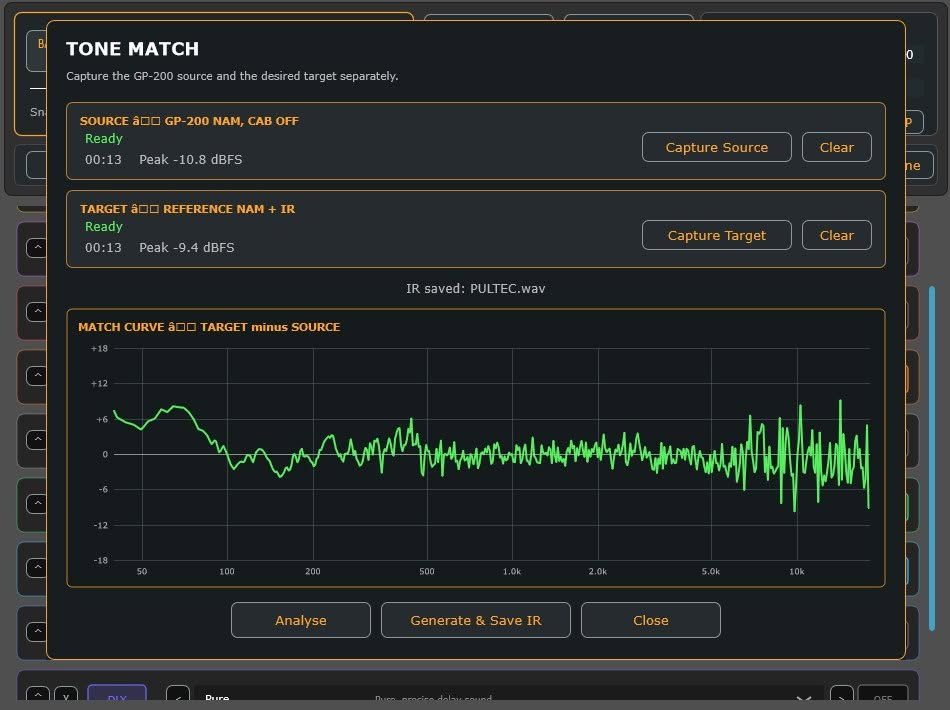
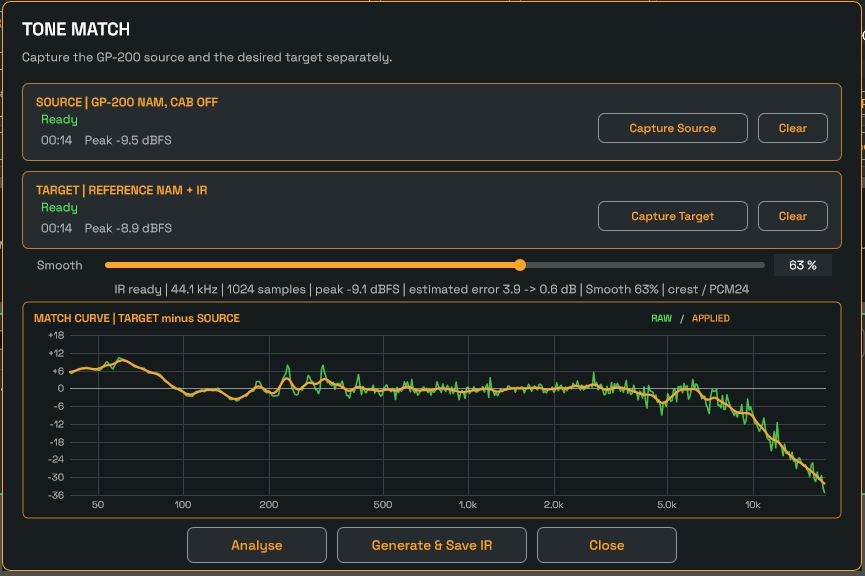
Tonematch GUI update

Changed region(s): [[0.0, 0.0, 1.0, 1.0]]

diff --git a/source/GP200Plugin/ToneMatch/ToneMatchPanel.cpp b/source/GP200Plugin/ToneMatch/ToneMatchPanel.cpp
@@ -2,7 +2,7 @@
     GP200 VST
 
     Portions adapted fro m phash/gp200editor and its contributors.
-    Those portions are licensed under  GPL-3.0-or-later.
+    Those portions are licensed under GPL-3.0-or-later.
 
   
     SPDX-License-Identifier: GPL-3.0-or-later
@@ -501,13 +501,9 @@ void ToneMatchPanel::resized()
         clearWidth,
         30);
 
-    globalStatusLabel.setBounds (
-        20,
-        252,
-        getWidth() - 40,
-        24);
-
-    const auto controlRowY = 278;
+    // Keep Smooth close to the TARGET capture block and use the recovered
+    // vertical space for a larger comparison graph.
+    const auto controlRowY = 252;
 
     smoothLabel.setBounds (
         30,
@@ -521,14 +517,20 @@ void ToneMatchPanel::resized()
         getWidth() - 124,
         24);
 
-    const int graphTop = 308;
-    const int graphBottom = getHeight() - 72;
+    globalStatusLabel.setBounds (
+        20,
+        278,
+        getWidth() - 40,
+        20);
+
+    const int graphTop = 300;
+    const int graphBottom = getHeight() - 52;
 
     matchCurveComponent.setBounds (
         20,
         graphTop,
         getWidth() - 40,
-        juce::jmax (140, graphBottom - graphTop));
+        juce::jmax (160, graphBottom - graphTop));
 
     constexpr int analyseWidth = 140;
     constexpr int generateWidth = 190;
@@ -537,7 +539,7 @@ void ToneMatchPanel::resized()
 
     const auto totalWidth = analyseWidth + generateWidth + closeWidth + 2 * gap;
     const auto startX = (getWidth() - totalWidth) / 2;
-    const auto buttonY = getHeight() - 58;
+    const auto buttonY = getHeight() - 44;
 
     analyseButton.setBounds (startX, buttonY, analyseWidth, 36);
     generateIRButton.setBounds (startX + analyseWidth + gap, buttonY, generateWidth, 36);
